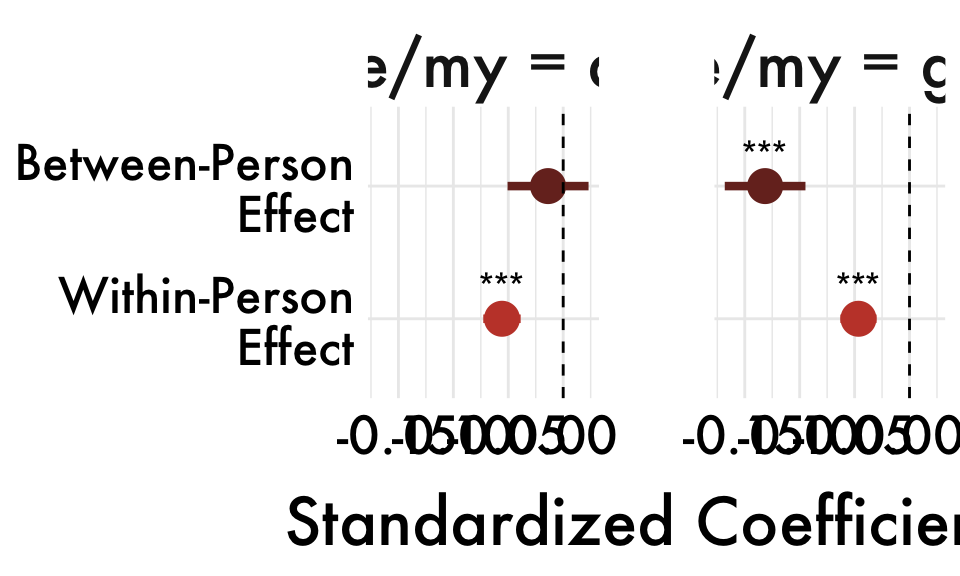
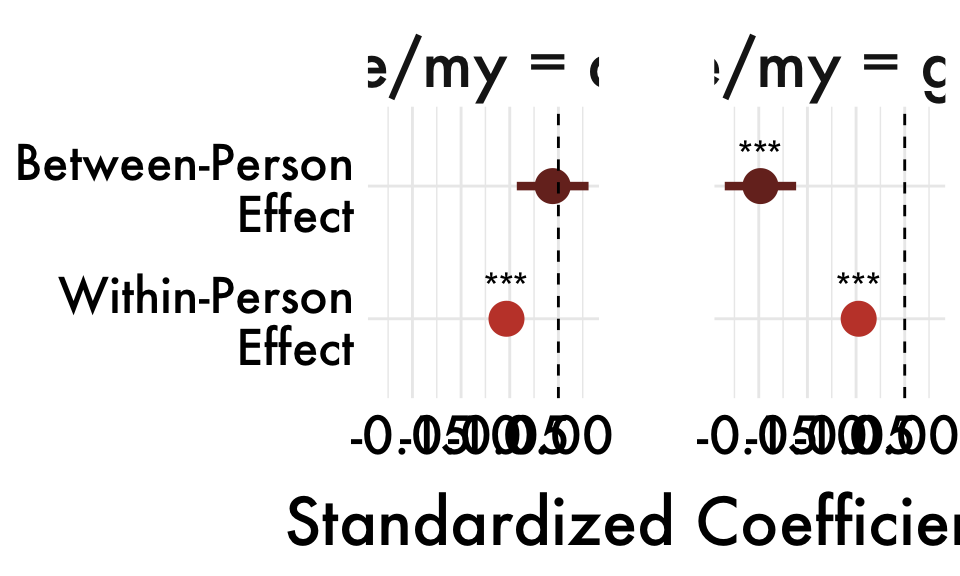
updating talkspace slides

diff --git a/docs/posts/I-projections/Post.html b/docs/posts/I-projections/Post.html
@@ -10,7 +10,7 @@
   <meta name="generator" content="quarto-1.6.40">
 
   <meta name="author" content="Steven">
-  <meta name="dcterms.date" content="2025-12-10">
+  <meta name="dcterms.date" content="2025-12-16">
   <title>I-Projection Results</title>
   <meta name="apple-mobile-web-app-capable" content="yes">
   <meta name="apple-mobile-web-app-status-bar-style" content="black-translucent">
@@ -150,7 +150,7 @@ Steven
 </div>
 </div>
 
-  <p class="date">2025-12-10</p>
+  <p class="date">2025-12-16</p>
 </section>
 <section>
 <section id="q1.-do-projections-move-closer-to-the-positive-end-of-the-axis-over-time" class="title-slide slide level1 center">
@@ -161,8 +161,8 @@ Steven
 <h2>First-person sing. valence projections</h2>
 <div class="cell">
 <div class="cell-output-display">
-<div class="datatables html-widget html-fill-item" id="htmlwidget-2a730c846929b1cd56b9" style="width:100%;height:auto;"></div>
-<script type="application/json" data-for="htmlwidget-2a730c846929b1cd56b9">{"x":{"filter":"none","vertical":false,"data":[["1","2"],["Intercept","daysSinceFirstText"],["0.3480 [0.3440, 0.3510]","0.0000 [0.0000, 0.0000]"],[9238.257,8791.084000000001],[0.002,0],[204.524,13.55],["&lt; .001","&lt; .001"],["***","***"]],"container":"<table class=\"display\">\n  <thead>\n    <tr>\n      <th> <\/th>\n      <th>term<\/th>\n      <th>b [95% CI]<\/th>\n      <th>df<\/th>\n      <th>SE<\/th>\n      <th>t<\/th>\n      <th>p<\/th>\n      <th>significance<\/th>\n    <\/tr>\n  <\/thead>\n<\/table>","options":{"columnDefs":[{"className":"dt-right","targets":[3,4,5]},{"orderable":false,"targets":0},{"name":" ","targets":0},{"name":"term","targets":1},{"name":"b [95% CI]","targets":2},{"name":"df","targets":3},{"name":"SE","targets":4},{"name":"t","targets":5},{"name":"p","targets":6},{"name":"significance","targets":7}],"order":[],"autoWidth":false,"orderClasses":false}},"evals":[],"jsHooks":[]}</script>
+<div class="datatables html-widget html-fill-item" id="htmlwidget-b5dbda7f1516fcd0c2e1" style="width:100%;height:auto;"></div>
+<script type="application/json" data-for="htmlwidget-b5dbda7f1516fcd0c2e1">{"x":{"filter":"none","vertical":false,"data":[["1","2"],["Intercept","daysSinceFirstText"],["0.3220 [0.3190, 0.3250]","0.0000 [0.0000, 0.0000]"],[9618.141,8874.082],[0.002,0],[201.608,13.981],["&lt; .001","&lt; .001"],["***","***"]],"container":"<table class=\"display\">\n  <thead>\n    <tr>\n      <th> <\/th>\n      <th>term<\/th>\n      <th>b [95% CI]<\/th>\n      <th>df<\/th>\n      <th>SE<\/th>\n      <th>t<\/th>\n      <th>p<\/th>\n      <th>significance<\/th>\n    <\/tr>\n  <\/thead>\n<\/table>","options":{"columnDefs":[{"className":"dt-right","targets":[3,4,5]},{"orderable":false,"targets":0},{"name":" ","targets":0},{"name":"term","targets":1},{"name":"b [95% CI]","targets":2},{"name":"df","targets":3},{"name":"SE","targets":4},{"name":"t","targets":5},{"name":"p","targets":6},{"name":"significance","targets":7}],"order":[],"autoWidth":false,"orderClasses":false}},"evals":[],"jsHooks":[]}</script>
 </div>
 </div>
 </section>
@@ -185,8 +185,8 @@ Steven
 <h2>first_person_sing_ability_combined</h2>
 <div class="cell">
 <div class="cell-output-display">
-<div class="datatables html-widget html-fill-item" id="htmlwidget-fdeadd1f5ba2fe711a2d" style="width:100%;height:auto;"></div>
-<script type="application/json" data-for="htmlwidget-fdeadd1f5ba2fe711a2d">{"x":{"filter":"none","vertical":false,"data":[["1","2"],["Intercept","daysSinceFirstText"],["0.0500 [0.0460, 0.0530]","0.0010 [0.0010, 0.0010]"],[8258.284,8684.388999999999],[0.002,0],[29.085,30.076],["&lt; .001","&lt; .001"],["***","***"]],"container":"<table class=\"display\">\n  <thead>\n    <tr>\n      <th> <\/th>\n      <th>term<\/th>\n      <th>b [95% CI]<\/th>\n      <th>df<\/th>\n      <th>SE<\/th>\n      <th>t<\/th>\n      <th>p<\/th>\n      <th>significance<\/th>\n    <\/tr>\n  <\/thead>\n<\/table>","options":{"columnDefs":[{"className":"dt-right","targets":[3,4,5]},{"orderable":false,"targets":0},{"name":" ","targets":0},{"name":"term","targets":1},{"name":"b [95% CI]","targets":2},{"name":"df","targets":3},{"name":"SE","targets":4},{"name":"t","targets":5},{"name":"p","targets":6},{"name":"significance","targets":7}],"order":[],"autoWidth":false,"orderClasses":false}},"evals":[],"jsHooks":[]}</script>
+<div class="datatables html-widget html-fill-item" id="htmlwidget-2eafe22559560761b783" style="width:100%;height:auto;"></div>
+<script type="application/json" data-for="htmlwidget-2eafe22559560761b783">{"x":{"filter":"none","vertical":false,"data":[["1","2"],["Intercept","daysSinceFirstText"],["0.0110 [0.0080, 0.0150]","0.0010 [0.0010, 0.0010]"],[8635.530000000001,8755.671],[0.002,0],[6.481,28.845],["&lt; .001","&lt; .001"],["***","***"]],"container":"<table class=\"display\">\n  <thead>\n    <tr>\n      <th> <\/th>\n      <th>term<\/th>\n      <th>b [95% CI]<\/th>\n      <th>df<\/th>\n      <th>SE<\/th>\n      <th>t<\/th>\n      <th>p<\/th>\n      <th>significance<\/th>\n    <\/tr>\n  <\/thead>\n<\/table>","options":{"columnDefs":[{"className":"dt-right","targets":[3,4,5]},{"orderable":false,"targets":0},{"name":" ","targets":0},{"name":"term","targets":1},{"name":"b [95% CI]","targets":2},{"name":"df","targets":3},{"name":"SE","targets":4},{"name":"t","targets":5},{"name":"p","targets":6},{"name":"significance","targets":7}],"order":[],"autoWidth":false,"orderClasses":false}},"evals":[],"jsHooks":[]}</script>
 </div>
 </div>
 </section>
@@ -209,8 +209,8 @@ Steven
 <h2>Good</h2>
 <div class="cell">
 <div class="cell-output-display">
-<div class="datatables html-widget html-fill-item" id="htmlwidget-cc487592b98666385206" style="width:100%;height:auto;"></div>
-<script type="application/json" data-for="htmlwidget-cc487592b98666385206">{"x":{"filter":"none","vertical":false,"data":[["1","2"],["(Intercept)","daysSinceFirstText"],[-0,0.13],[-0,0.111],[0,0.149]],"container":"<table class=\"display\">\n  <thead>\n    <tr>\n      <th> <\/th>\n      <th>term<\/th>\n      <th>Std_Coefficient<\/th>\n      <th>CI_low<\/th>\n      <th>CI_high<\/th>\n    <\/tr>\n  <\/thead>\n<\/table>","options":{"columnDefs":[{"className":"dt-right","targets":[2,3,4]},{"orderable":false,"targets":0},{"name":" ","targets":0},{"name":"term","targets":1},{"name":"Std_Coefficient","targets":2},{"name":"CI_low","targets":3},{"name":"CI_high","targets":4}],"order":[],"autoWidth":false,"orderClasses":false}},"evals":[],"jsHooks":[]}</script>
+<div class="datatables html-widget html-fill-item" id="htmlwidget-0e5f4a20e0ec11c5a289" style="width:100%;height:auto;"></div>
+<script type="application/json" data-for="htmlwidget-0e5f4a20e0ec11c5a289">{"x":{"filter":"none","vertical":false,"data":[["1","2"],["(Intercept)","daysSinceFirstText"],[-0,0.134],[-0,0.115],[0,0.152]],"container":"<table class=\"display\">\n  <thead>\n    <tr>\n      <th> <\/th>\n      <th>term<\/th>\n      <th>Std_Coefficient<\/th>\n      <th>CI_low<\/th>\n      <th>CI_high<\/th>\n    <\/tr>\n  <\/thead>\n<\/table>","options":{"columnDefs":[{"className":"dt-right","targets":[2,3,4]},{"orderable":false,"targets":0},{"name":" ","targets":0},{"name":"term","targets":1},{"name":"Std_Coefficient","targets":2},{"name":"CI_low","targets":3},{"name":"CI_high","targets":4}],"order":[],"autoWidth":false,"orderClasses":false}},"evals":[],"jsHooks":[]}</script>
 </div>
 </div>
 </section>
@@ -218,8 +218,8 @@ Steven
 <h2>Able</h2>
 <div class="cell">
 <div class="cell-output-display">
-<div class="datatables html-widget html-fill-item" id="htmlwidget-0eaefea4a38eb161e906" style="width:100%;height:auto;"></div>
-<script type="application/json" data-for="htmlwidget-0eaefea4a38eb161e906">{"x":{"filter":"none","vertical":false,"data":[["1","2"],["(Intercept)","daysSinceFirstText"],[-0,0.279],[-0,0.261],[0,0.297]],"container":"<table class=\"display\">\n  <thead>\n    <tr>\n      <th> <\/th>\n      <th>term<\/th>\n      <th>Std_Coefficient<\/th>\n      <th>CI_low<\/th>\n      <th>CI_high<\/th>\n    <\/tr>\n  <\/thead>\n<\/table>","options":{"columnDefs":[{"className":"dt-right","targets":[2,3,4]},{"orderable":false,"targets":0},{"name":" ","targets":0},{"name":"term","targets":1},{"name":"Std_Coefficient","targets":2},{"name":"CI_low","targets":3},{"name":"CI_high","targets":4}],"order":[],"autoWidth":false,"orderClasses":false}},"evals":[],"jsHooks":[]}</script>
+<div class="datatables html-widget html-fill-item" id="htmlwidget-8c2f0d8dca25ae537be1" style="width:100%;height:auto;"></div>
+<script type="application/json" data-for="htmlwidget-8c2f0d8dca25ae537be1">{"x":{"filter":"none","vertical":false,"data":[["1","2"],["(Intercept)","daysSinceFirstText"],[-0,0.268],[-0,0.25],[0,0.286]],"container":"<table class=\"display\">\n  <thead>\n    <tr>\n      <th> <\/th>\n      <th>term<\/th>\n      <th>Std_Coefficient<\/th>\n      <th>CI_low<\/th>\n      <th>CI_high<\/th>\n    <\/tr>\n  <\/thead>\n<\/table>","options":{"columnDefs":[{"className":"dt-right","targets":[2,3,4]},{"orderable":false,"targets":0},{"name":" ","targets":0},{"name":"term","targets":1},{"name":"Std_Coefficient","targets":2},{"name":"CI_low","targets":3},{"name":"CI_high","targets":4}],"order":[],"autoWidth":false,"orderClasses":false}},"evals":[],"jsHooks":[]}</script>
 </div>
 </div>
 </section></section>
@@ -237,16 +237,16 @@ Steven
 <div id="tabset-1-1">
 <div class="cell">
 <div class="cell-output-display">
-<div class="datatables html-widget html-fill-item" id="htmlwidget-0e05b0afc30cf39680e3" style="width:100%;height:auto;"></div>
-<script type="application/json" data-for="htmlwidget-0e05b0afc30cf39680e3">{"x":{"filter":"none","vertical":false,"data":[["1","2","3"],["Intercept","first_person_sing_valence_combined","daysSinceFirstText"],["-0.0020 [-0.0290, 0.0240]","-0.0730 [-0.0890, -0.0570]","-0.2560 [-0.2680, -0.2440]"],[3674.404,11223.059,8627.591],[0.014,0.008,0.006],[-0.17,-9.202999999999999,-42.639],[".865","&lt; .001","&lt; .001"],["","***","***"]],"container":"<table class=\"display\">\n  <thead>\n    <tr>\n      <th> <\/th>\n      <th>term<\/th>\n      <th>b [95% CI]<\/th>\n      <th>df<\/th>\n      <th>SE<\/th>\n      <th>t<\/th>\n      <th>p<\/th>\n      <th>significance<\/th>\n    <\/tr>\n  <\/thead>\n<\/table>","options":{"columnDefs":[{"className":"dt-right","targets":[3,4,5]},{"orderable":false,"targets":0},{"name":" ","targets":0},{"name":"term","targets":1},{"name":"b [95% CI]","targets":2},{"name":"df","targets":3},{"name":"SE","targets":4},{"name":"t","targets":5},{"name":"p","targets":6},{"name":"significance","targets":7}],"order":[],"autoWidth":false,"orderClasses":false}},"evals":[],"jsHooks":[]}</script>
+<div class="datatables html-widget html-fill-item" id="htmlwidget-86ad0a98bdfbbd154633" style="width:100%;height:auto;"></div>
+<script type="application/json" data-for="htmlwidget-86ad0a98bdfbbd154633">{"x":{"filter":"none","vertical":false,"data":[["1","2","3"],["Intercept","first_person_sing_valence_combined","daysSinceFirstText"],["-0.0020 [-0.0290, 0.0240]","-0.0750 [-0.0900, -0.0600]","-0.2550 [-0.2670, -0.2430]"],[3672.307,11038.831,8625.1],[0.014,0.008,0.006],[-0.165,-9.661,-42.49],[".869","&lt; .001","&lt; .001"],["","***","***"]],"container":"<table class=\"display\">\n  <thead>\n    <tr>\n      <th> <\/th>\n      <th>term<\/th>\n      <th>b [95% CI]<\/th>\n      <th>df<\/th>\n      <th>SE<\/th>\n      <th>t<\/th>\n      <th>p<\/th>\n      <th>significance<\/th>\n    <\/tr>\n  <\/thead>\n<\/table>","options":{"columnDefs":[{"className":"dt-right","targets":[3,4,5]},{"orderable":false,"targets":0},{"name":" ","targets":0},{"name":"term","targets":1},{"name":"b [95% CI]","targets":2},{"name":"df","targets":3},{"name":"SE","targets":4},{"name":"t","targets":5},{"name":"p","targets":6},{"name":"significance","targets":7}],"order":[],"autoWidth":false,"orderClasses":false}},"evals":[],"jsHooks":[]}</script>
 </div>
 </div>
 </div>
 <div id="tabset-1-2">
 <div class="cell">
 <div class="cell-output-display">
-<div class="datatables html-widget html-fill-item" id="htmlwidget-095e0b953040ee1dd7bb" style="width:100%;height:auto;"></div>
-<script type="application/json" data-for="htmlwidget-095e0b953040ee1dd7bb">{"x":{"filter":"none","vertical":false,"data":[["1","2","3","4"],["Intercept","daysSinceFirstText","first_person_sing_valence_combined_within","first_person_sing_valence_combined_between"],["-0.0010 [-0.0280, 0.0260]","-0.2590 [-0.2710, -0.2470]","-0.0380 [-0.0510, -0.0240]","-0.1000 [-0.1270, -0.0720]"],[3589.413,8522.674000000001,8082.705,3642.397],[0.014,0.006,0.007,0.014],[-0.066,-42.955,-5.538,-7.016],[".947","&lt; .001","&lt; .001","&lt; .001"],["","***","***","***"]],"container":"<table class=\"display\">\n  <thead>\n    <tr>\n      <th> <\/th>\n      <th>term<\/th>\n      <th>b [95% CI]<\/th>\n      <th>df<\/th>\n      <th>SE<\/th>\n      <th>t<\/th>\n      <th>p<\/th>\n      <th>significance<\/th>\n    <\/tr>\n  <\/thead>\n<\/table>","options":{"columnDefs":[{"className":"dt-right","targets":[3,4,5]},{"orderable":false,"targets":0},{"name":" ","targets":0},{"name":"term","targets":1},{"name":"b [95% CI]","targets":2},{"name":"df","targets":3},{"name":"SE","targets":4},{"name":"t","targets":5},{"name":"p","targets":6},{"name":"significance","targets":7}],"order":[],"autoWidth":false,"orderClasses":false}},"evals":[],"jsHooks":[]}</script>
+<div class="datatables html-widget html-fill-item" id="htmlwidget-ba7440216c579e508100" style="width:100%;height:auto;"></div>
+<script type="application/json" data-for="htmlwidget-ba7440216c579e508100">{"x":{"filter":"none","vertical":false,"data":[["1","2","3","4"],["Intercept","daysSinceFirstText","first_person_sing_valence_combined_within","first_person_sing_valence_combined_between"],["-0.0010 [-0.0270, 0.0260]","-0.2590 [-0.2700, -0.2470]","-0.0390 [-0.0520, -0.0250]","-0.1130 [-0.1410, -0.0850]"],[3589.351,8524.428,8082.994,3643.886],[0.014,0.006,0.007,0.014],[-0.047,-42.919,-5.636,-7.927],[".962","&lt; .001","&lt; .001","&lt; .001"],["","***","***","***"]],"container":"<table class=\"display\">\n  <thead>\n    <tr>\n      <th> <\/th>\n      <th>term<\/th>\n      <th>b [95% CI]<\/th>\n      <th>df<\/th>\n      <th>SE<\/th>\n      <th>t<\/th>\n      <th>p<\/th>\n      <th>significance<\/th>\n    <\/tr>\n  <\/thead>\n<\/table>","options":{"columnDefs":[{"className":"dt-right","targets":[3,4,5]},{"orderable":false,"targets":0},{"name":" ","targets":0},{"name":"term","targets":1},{"name":"b [95% CI]","targets":2},{"name":"df","targets":3},{"name":"SE","targets":4},{"name":"t","targets":5},{"name":"p","targets":6},{"name":"significance","targets":7}],"order":[],"autoWidth":false,"orderClasses":false}},"evals":[],"jsHooks":[]}</script>
 </div>
 </div>
 </div>
@@ -263,16 +263,16 @@ Steven
 <div id="tabset-2-1">
 <div class="cell">
 <div class="cell-output-display">
-<div class="datatables html-widget html-fill-item" id="htmlwidget-80b0bd058f23fb8a4edc" style="width:100%;height:auto;"></div>
-<script type="application/json" data-for="htmlwidget-80b0bd058f23fb8a4edc">{"x":{"filter":"none","vertical":false,"data":[["1","2","3"],["Intercept","first_person_sing_ability_combined","daysSinceFirstText"],["-0.0020 [-0.0290, 0.0250]","-0.0600 [-0.0770, -0.0430]","-0.2510 [-0.2640, -0.2390]"],[3675.082,11610.504,8838.146000000001],[0.014,0.008999999999999999,0.006],[-0.142,-6.983,-40.676],[".887","&lt; .001","&lt; .001"],["","***","***"]],"container":"<table class=\"display\">\n  <thead>\n    <tr>\n      <th> <\/th>\n      <th>term<\/th>\n      <th>b [95% CI]<\/th>\n      <th>df<\/th>\n      <th>SE<\/th>\n      <th>t<\/th>\n      <th>p<\/th>\n      <th>significance<\/th>\n    <\/tr>\n  <\/thead>\n<\/table>","options":{"columnDefs":[{"className":"dt-right","targets":[3,4,5]},{"orderable":false,"targets":0},{"name":" ","targets":0},{"name":"term","targets":1},{"name":"b [95% CI]","targets":2},{"name":"df","targets":3},{"name":"SE","targets":4},{"name":"t","targets":5},{"name":"p","targets":6},{"name":"significance","targets":7}],"order":[],"autoWidth":false,"orderClasses":false}},"evals":[],"jsHooks":[]}</script>
+<div class="datatables html-widget html-fill-item" id="htmlwidget-3ed7b9f00acecb7444f5" style="width:100%;height:auto;"></div>
+<script type="application/json" data-for="htmlwidget-3ed7b9f00acecb7444f5">{"x":{"filter":"none","vertical":false,"data":[["1","2","3"],["Intercept","first_person_sing_ability_combined","daysSinceFirstText"],["-0.0020 [-0.0290, 0.0250]","-0.0520 [-0.0680, -0.0350]","-0.2530 [-0.2650, -0.2410]"],[3675.225,11479.966,8798.064],[0.014,0.008,0.006],[-0.126,-6.101,-41.034],[".900","&lt; .001","&lt; .001"],["","***","***"]],"container":"<table class=\"display\">\n  <thead>\n    <tr>\n      <th> <\/th>\n      <th>term<\/th>\n      <th>b [95% CI]<\/th>\n      <th>df<\/th>\n      <th>SE<\/th>\n      <th>t<\/th>\n      <th>p<\/th>\n      <th>significance<\/th>\n    <\/tr>\n  <\/thead>\n<\/table>","options":{"columnDefs":[{"className":"dt-right","targets":[3,4,5]},{"orderable":false,"targets":0},{"name":" ","targets":0},{"name":"term","targets":1},{"name":"b [95% CI]","targets":2},{"name":"df","targets":3},{"name":"SE","targets":4},{"name":"t","targets":5},{"name":"p","targets":6},{"name":"significance","targets":7}],"order":[],"autoWidth":false,"orderClasses":false}},"evals":[],"jsHooks":[]}</script>
 </div>
 </div>
 </div>
 <div id="tabset-2-2">
 <div class="cell">
 <div class="cell-output-display">
-<div class="datatables html-widget html-fill-item" id="htmlwidget-49c35a3216b2eaa98603" style="width:100%;height:auto;"></div>
-<script type="application/json" data-for="htmlwidget-49c35a3216b2eaa98603">{"x":{"filter":"none","vertical":false,"data":[["1","2","3","4"],["Intercept","first_person_sing_ability_combined_between","first_person_sing_ability_combined_within","daysSinceFirstText"],["-0.0030 [-0.0300, 0.0240]","-0.0100 [-0.0380, 0.0170]","-0.0450 [-0.0590, -0.0320]","-0.2520 [-0.2640, -0.2400]"],[3589.077,3600.016,8114.044,8545.599],[0.014,0.014,0.007,0.006],[-0.223,-0.732,-6.417,-40.367],[".824",".464","&lt; .001","&lt; .001"],["","","***","***"]],"container":"<table class=\"display\">\n  <thead>\n    <tr>\n      <th> <\/th>\n      <th>term<\/th>\n      <th>b [95% CI]<\/th>\n      <th>df<\/th>\n      <th>SE<\/th>\n      <th>t<\/th>\n      <th>p<\/th>\n      <th>significance<\/th>\n    <\/tr>\n  <\/thead>\n<\/table>","options":{"columnDefs":[{"className":"dt-right","targets":[3,4,5]},{"orderable":false,"targets":0},{"name":" ","targets":0},{"name":"term","targets":1},{"name":"b [95% CI]","targets":2},{"name":"df","targets":3},{"name":"SE","targets":4},{"name":"t","targets":5},{"name":"p","targets":6},{"name":"significance","targets":7}],"order":[],"autoWidth":false,"orderClasses":false}},"evals":[],"jsHooks":[]}</script>
+<div class="datatables html-widget html-fill-item" id="htmlwidget-30672e0cc0a8604a7e7a" style="width:100%;height:auto;"></div>
+<script type="application/json" data-for="htmlwidget-30672e0cc0a8604a7e7a">{"x":{"filter":"none","vertical":false,"data":[["1","2","3","4"],["Intercept","first_person_sing_ability_combined_between","first_person_sing_ability_combined_within","daysSinceFirstText"],["-0.0030 [-0.0300, 0.0240]","-0.0040 [-0.0320, 0.0230]","-0.0430 [-0.0570, -0.0300]","-0.2530 [-0.2650, -0.2410]"],[3588.85,3599.363,8110.05,8541.519],[0.014,0.014,0.007,0.006],[-0.228,-0.312,-6.165,-40.697],[".820",".755","&lt; .001","&lt; .001"],["","","***","***"]],"container":"<table class=\"display\">\n  <thead>\n    <tr>\n      <th> <\/th>\n      <th>term<\/th>\n      <th>b [95% CI]<\/th>\n      <th>df<\/th>\n      <th>SE<\/th>\n      <th>t<\/th>\n      <th>p<\/th>\n      <th>significance<\/th>\n    <\/tr>\n  <\/thead>\n<\/table>","options":{"columnDefs":[{"className":"dt-right","targets":[3,4,5]},{"orderable":false,"targets":0},{"name":" ","targets":0},{"name":"term","targets":1},{"name":"b [95% CI]","targets":2},{"name":"df","targets":3},{"name":"SE","targets":4},{"name":"t","targets":5},{"name":"p","targets":6},{"name":"significance","targets":7}],"order":[],"autoWidth":false,"orderClasses":false}},"evals":[],"jsHooks":[]}</script>
 </div>
 </div>
 </div>
@@ -294,16 +294,16 @@ Steven
 <div id="tabset-3-1">
 <div class="cell">
 <div class="cell-output-display">
-<div class="datatables html-widget html-fill-item" id="htmlwidget-5f1c8a40fb6e821bad1e" style="width:100%;height:auto;"></div>
-<script type="application/json" data-for="htmlwidget-5f1c8a40fb6e821bad1e">{"x":{"filter":"none","vertical":false,"data":[["1","2","3","4","5","6","7","8","9"],["Intercept","i","pct_good","pct_bad","n_total","tone_pos","tone_neg","daysSinceFirstText","first_person_sing_valence_combined"],["-0.0030 [-0.0290, 0.0230]","0.0280 [0.0120, 0.0440]","-0.0030 [-0.0170, 0.0100]","0.0040 [-0.0090, 0.0170]","0.0000 [-0.0160, 0.0160]","-0.0210 [-0.0370, -0.0060]","0.0700 [0.0550, 0.0850]","-0.2610 [-0.2730, -0.2500]","-0.0700 [-0.0860, -0.0550]"],[3616.42,11222.728,9686.904,9614.686,11325.481,10545.141,10429.482,8618.4,11251.594],[0.013,0.008,0.007,0.007,0.008,0.008,0.008,0.006,0.008],[-0.216,3.39,-0.495,0.55,0.012,-2.672,9.276,-43.348,-8.847],[".829",".001",".620",".582",".991",".008","&lt; .001","&lt; .001","&lt; .001"],["","**","","","","**","***","***","***"]],"container":"<table class=\"display\">\n  <thead>\n    <tr>\n      <th> <\/th>\n      <th>term<\/th>\n      <th>b [95% CI]<\/th>\n      <th>df<\/th>\n      <th>SE<\/th>\n      <th>t<\/th>\n      <th>p<\/th>\n      <th>significance<\/th>\n    <\/tr>\n  <\/thead>\n<\/table>","options":{"columnDefs":[{"className":"dt-right","targets":[3,4,5]},{"orderable":false,"targets":0},{"name":" ","targets":0},{"name":"term","targets":1},{"name":"b [95% CI]","targets":2},{"name":"df","targets":3},{"name":"SE","targets":4},{"name":"t","targets":5},{"name":"p","targets":6},{"name":"significance","targets":7}],"order":[],"autoWidth":false,"orderClasses":false}},"evals":[],"jsHooks":[]}</script>
+<div class="datatables html-widget html-fill-item" id="htmlwidget-8edfe1a381c0bd459c4d" style="width:100%;height:auto;"></div>
+<script type="application/json" data-for="htmlwidget-8edfe1a381c0bd459c4d">{"x":{"filter":"none","vertical":false,"data":[["1","2","3","4","5","6","7","8","9"],["Intercept","i","pct_good","pct_bad","n_total","tone_pos","tone_neg","daysSinceFirstText","first_person_sing_valence_combined"],["-0.0030 [-0.0290, 0.0230]","0.0260 [0.0100, 0.0420]","-0.0030 [-0.0160, 0.0100]","0.0040 [-0.0090, 0.0170]","-0.0010 [-0.0160, 0.0150]","-0.0200 [-0.0360, -0.0050]","0.0690 [0.0550, 0.0840]","-0.2610 [-0.2730, -0.2490]","-0.0700 [-0.0850, -0.0550]"],[3615.397,11220.488,9687.031999999999,9614.803,11331.325,10549.348,10426.516,8619.232,11063.251],[0.013,0.008,0.007,0.007,0.008,0.008,0.008,0.006,0.008],[-0.209,3.129,-0.472,0.556,-0.07099999999999999,-2.549,9.173999999999999,-43.188,-8.967000000000001],[".835",".002",".637",".578",".943",".011","&lt; .001","&lt; .001","&lt; .001"],["","**","","","","*","***","***","***"]],"container":"<table class=\"display\">\n  <thead>\n    <tr>\n      <th> <\/th>\n      <th>term<\/th>\n      <th>b [95% CI]<\/th>\n      <th>df<\/th>\n      <th>SE<\/th>\n      <th>t<\/th>\n      <th>p<\/th>\n      <th>significance<\/th>\n    <\/tr>\n  <\/thead>\n<\/table>","options":{"columnDefs":[{"className":"dt-right","targets":[3,4,5]},{"orderable":false,"targets":0},{"name":" ","targets":0},{"name":"term","targets":1},{"name":"b [95% CI]","targets":2},{"name":"df","targets":3},{"name":"SE","targets":4},{"name":"t","targets":5},{"name":"p","targets":6},{"name":"significance","targets":7}],"order":[],"autoWidth":false,"orderClasses":false}},"evals":[],"jsHooks":[]}</script>
 </div>
 </div>
 </div>
 <div id="tabset-3-2">
 <div class="cell">
 <div class="cell-output-display">
-<div class="datatables html-widget html-fill-item" id="htmlwidget-b7a33a321fc665d42f19" style="width:100%;height:auto;"></div>
-<script type="application/json" data-for="htmlwidget-b7a33a321fc665d42f19">{"x":{"filter":"none","vertical":false,"data":[["1","2","3","4","5","6","7","8","9","10","11","12","13","14","15","16"],["Intercept","daysSinceFirstText","first_person_sing_valence_combined_between","first_person_sing_valence_combined_within","tone_pos_within","tone_pos_between","tone_neg_within","tone_neg_between","n_total_within","n_total_between","i_between","i_within","pct_good_between","pct_good_within","pct_bad_between","pct_bad_within"],["-0.0030 [-0.0300, 0.0240]","-0.2610 [-0.2730, -0.2480]","-0.0690 [-0.0980, -0.0410]","-0.0380 [-0.0520, -0.0250]","-0.0320 [-0.0460, -0.0180]","-0.0600 [-0.0920, -0.0280]","0.0220 [0.0080, 0.0360]","0.1780 [0.1470, 0.2090]","0.0100 [-0.0030, 0.0240]","-0.0090 [-0.0360, 0.0180]","0.0840 [0.0540, 0.1140]","-0.0020 [-0.0160, 0.0120]","-0.0010 [-0.0310, 0.0290]","-0.0050 [-0.0180, 0.0090]","0.0030 [-0.0240, 0.0310]","0.0080 [-0.0060, 0.0210]"],[3306.157,8027.912,3344.169,7596.01,7587.536,3377.339,7586.986,3351.985,7587.698,3289.306,3319.934,7588.742,3338.739,7586.903,3396.08,7586.721],[0.014,0.006,0.015,0.007,0.007,0.016,0.007,0.016,0.007,0.014,0.015,0.007,0.015,0.007,0.014,0.007],[-0.235,-41.933,-4.748,-5.446,-4.513,-3.634,3.09,11.247,1.498,-0.622,5.496,-0.25,-0.061,-0.678,0.242,1.07],[".814","&lt; .001","&lt; .001","&lt; .001","&lt; .001","&lt; .001",".002","&lt; .001",".134",".534","&lt; .001",".802",".951",".498",".809",".285"],["","***","***","***","***","***","**","***","","","***","","","","",""]],"container":"<table class=\"display\">\n  <thead>\n    <tr>\n      <th> <\/th>\n      <th>term<\/th>\n      <th>b [95% CI]<\/th>\n      <th>df<\/th>\n      <th>SE<\/th>\n      <th>t<\/th>\n      <th>p<\/th>\n      <th>significance<\/th>\n    <\/tr>\n  <\/thead>\n<\/table>","options":{"columnDefs":[{"className":"dt-right","targets":[3,4,5]},{"orderable":false,"targets":0},{"name":" ","targets":0},{"name":"term","targets":1},{"name":"b [95% CI]","targets":2},{"name":"df","targets":3},{"name":"SE","targets":4},{"name":"t","targets":5},{"name":"p","targets":6},{"name":"significance","targets":7}],"order":[],"autoWidth":false,"orderClasses":false}},"evals":[],"jsHooks":[]}</script>
+<div class="datatables html-widget html-fill-item" id="htmlwidget-22e4163e33dd71a647a6" style="width:100%;height:auto;"></div>
+<script type="application/json" data-for="htmlwidget-22e4163e33dd71a647a6">{"x":{"filter":"none","vertical":false,"data":[["1","2","3","4","5","6","7","8","9","10","11","12","13","14","15","16"],["Intercept","daysSinceFirstText","first_person_sing_valence_combined_between","first_person_sing_valence_combined_within","tone_pos_within","tone_pos_between","tone_neg_within","tone_neg_between","n_total_within","n_total_between","i_between","i_within","pct_good_between","pct_good_within","pct_bad_between","pct_bad_within"],["-0.0030 [-0.0300, 0.0240]","-0.2600 [-0.2730, -0.2480]","-0.0740 [-0.1030, -0.0460]","-0.0380 [-0.0520, -0.0240]","-0.0320 [-0.0460, -0.0180]","-0.0590 [-0.0910, -0.0270]","0.0220 [0.0080, 0.0360]","0.1770 [0.1460, 0.2080]","0.0110 [-0.0030, 0.0240]","-0.0110 [-0.0380, 0.0160]","0.0810 [0.0510, 0.1100]","-0.0030 [-0.0170, 0.0110]","-0.0010 [-0.0310, 0.0290]","-0.0050 [-0.0180, 0.0090]","0.0030 [-0.0240, 0.0310]","0.0080 [-0.0060, 0.0210]"],[3306.294,8028.979,3343.712,7596.744,7587.631,3377.782,7587.06,3352.033,7587.751,3287.958,3320.042,7589.007,3338.78,7586.955,3396.213,7586.782],[0.014,0.006,0.015,0.007,0.007,0.016,0.007,0.016,0.007,0.014,0.015,0.007,0.015,0.007,0.014,0.007],[-0.215,-41.872,-5.067,-5.42,-4.466,-3.585,3.061,11.191,1.5,-0.8169999999999999,5.277,-0.37,-0.082,-0.675,0.231,1.087],[".830","&lt; .001","&lt; .001","&lt; .001","&lt; .001","&lt; .001",".002","&lt; .001",".134",".414","&lt; .001",".712",".935",".500",".817",".277"],["","***","***","***","***","***","**","***","","","***","","","","",""]],"container":"<table class=\"display\">\n  <thead>\n    <tr>\n      <th> <\/th>\n      <th>term<\/th>\n      <th>b [95% CI]<\/th>\n      <th>df<\/th>\n      <th>SE<\/th>\n      <th>t<\/th>\n      <th>p<\/th>\n      <th>significance<\/th>\n    <\/tr>\n  <\/thead>\n<\/table>","options":{"columnDefs":[{"className":"dt-right","targets":[3,4,5]},{"orderable":false,"targets":0},{"name":" ","targets":0},{"name":"term","targets":1},{"name":"b [95% CI]","targets":2},{"name":"df","targets":3},{"name":"SE","targets":4},{"name":"t","targets":5},{"name":"p","targets":6},{"name":"significance","targets":7}],"order":[],"autoWidth":false,"orderClasses":false}},"evals":[],"jsHooks":[]}</script>
 </div>
 </div>
 </div>
@@ -320,16 +320,16 @@ Steven
 <div id="tabset-4-1">
 <div class="cell">
 <div class="cell-output-display">
-<div class="datatables html-widget html-fill-item" id="htmlwidget-ef5bcc2d5d5dab9a55c1" style="width:100%;height:auto;"></div>
-<script type="application/json" data-for="htmlwidget-ef5bcc2d5d5dab9a55c1">{"x":{"filter":"none","vertical":false,"data":[["1","2","3","4","5","6","7","8","9"],["Intercept","i","pct_good","pct_bad","n_total","tone_pos","tone_neg","daysSinceFirstText","first_person_sing_ability_combined"],["-0.0030 [-0.0290, 0.0240]","0.0390 [0.0230, 0.0550]","-0.0030 [-0.0160, 0.0100]","0.0050 [-0.0080, 0.0190]","-0.0000 [-0.0160, 0.0160]","-0.0230 [-0.0390, -0.0070]","0.0680 [0.0530, 0.0830]","-0.2560 [-0.2690, -0.2440]","-0.0640 [-0.0810, -0.0470]"],[3614.017,11158.778,9666.447,9599.938,11307.231,10527.284,10411.512,8825.588,11618.669],[0.013,0.008,0.007,0.007,0.008,0.008,0.008,0.006,0.008999999999999999],[-0.202,4.689,-0.41,0.821,-0.013,-2.839,8.994,-41.383,-7.377],[".840","&lt; .001",".682",".411",".990",".005","&lt; .001","&lt; .001","&lt; .001"],["","***","","","","**","***","***","***"]],"container":"<table class=\"display\">\n  <thead>\n    <tr>\n      <th> <\/th>\n      <th>term<\/th>\n      <th>b [95% CI]<\/th>\n      <th>df<\/th>\n      <th>SE<\/th>\n      <th>t<\/th>\n      <th>p<\/th>\n      <th>significance<\/th>\n    <\/tr>\n  <\/thead>\n<\/table>","options":{"columnDefs":[{"className":"dt-right","targets":[3,4,5]},{"orderable":false,"targets":0},{"name":" ","targets":0},{"name":"term","targets":1},{"name":"b [95% CI]","targets":2},{"name":"df","targets":3},{"name":"SE","targets":4},{"name":"t","targets":5},{"name":"p","targets":6},{"name":"significance","targets":7}],"order":[],"autoWidth":false,"orderClasses":false}},"evals":[],"jsHooks":[]}</script>
+<div class="datatables html-widget html-fill-item" id="htmlwidget-a05050986c7fbb1db7d0" style="width:100%;height:auto;"></div>
+<script type="application/json" data-for="htmlwidget-a05050986c7fbb1db7d0">{"x":{"filter":"none","vertical":false,"data":[["1","2","3","4","5","6","7","8","9"],["Intercept","i","pct_good","pct_bad","n_total","tone_pos","tone_neg","daysSinceFirstText","first_person_sing_ability_combined"],["-0.0020 [-0.0290, 0.0240]","0.0370 [0.0200, 0.0530]","-0.0030 [-0.0160, 0.0100]","0.0050 [-0.0080, 0.0180]","-0.0010 [-0.0170, 0.0150]","-0.0210 [-0.0360, -0.0050]","0.0680 [0.0530, 0.0830]","-0.2590 [-0.2710, -0.2470]","-0.0510 [-0.0680, -0.0340]"],[3612.983,11170.404,9668.574000000001,9599.353999999999,11315.485,10531.277,10421.461,8793.669,11506.728],[0.013,0.008,0.007,0.007,0.008,0.008,0.008,0.006,0.008],[-0.183,4.423,-0.467,0.788,-0.146,-2.551,8.993,-41.795,-6.019],[".854","&lt; .001",".641",".431",".884",".011","&lt; .001","&lt; .001","&lt; .001"],["","***","","","","*","***","***","***"]],"container":"<table class=\"display\">\n  <thead>\n    <tr>\n      <th> <\/th>\n      <th>term<\/th>\n      <th>b [95% CI]<\/th>\n      <th>df<\/th>\n      <th>SE<\/th>\n      <th>t<\/th>\n      <th>p<\/th>\n      <th>significance<\/th>\n    <\/tr>\n  <\/thead>\n<\/table>","options":{"columnDefs":[{"className":"dt-right","targets":[3,4,5]},{"orderable":false,"targets":0},{"name":" ","targets":0},{"name":"term","targets":1},{"name":"b [95% CI]","targets":2},{"name":"df","targets":3},{"name":"SE","targets":4},{"name":"t","targets":5},{"name":"p","targets":6},{"name":"significance","targets":7}],"order":[],"autoWidth":false,"orderClasses":false}},"evals":[],"jsHooks":[]}</script>
 </div>
 </div>
 </div>
 <div id="tabset-4-2">
 <div class="cell">
 <div class="cell-output-display">
-<div class="datatables html-widget html-fill-item" id="htmlwidget-c70e6b0b44cde8177e81" style="width:100%;height:auto;"></div>
-<script type="application/json" data-for="htmlwidget-c70e6b0b44cde8177e81">{"x":{"filter":"none","vertical":false,"data":[["1","2","3","4","5","6","7","8","9","10","11","12","13","14","15","16"],["Intercept","daysSinceFirstText","first_person_sing_ability_combined_between","first_person_sing_ability_combined_within","tone_pos_within","tone_pos_between","tone_neg_within","tone_neg_between","n_total_within","n_total_between","i_between","i_within","pct_good_between","pct_good_within","pct_bad_between","pct_bad_within"],["-0.0020 [-0.0290, 0.0250]","-0.2530 [-0.2660, -0.2410]","-0.0200 [-0.0480, 0.0090]","-0.0470 [-0.0620, -0.0330]","-0.0330 [-0.0470, -0.0190]","-0.0560 [-0.0880, -0.0230]","0.0200 [0.0060, 0.0340]","0.1830 [0.1520, 0.2140]","0.0100 [-0.0040, 0.0240]","-0.0150 [-0.0420, 0.0120]","0.0920 [0.0610, 0.1220]","0.0030 [-0.0110, 0.0170]","-0.0010 [-0.0310, 0.0300]","-0.0040 [-0.0180, 0.0100]","0.0020 [-0.0260, 0.0300]","0.0090 [-0.0050, 0.0230]"],[3306.681,8052.822,3305.834,7626.327,7587.308,3377.724,7587.289,3353.902,7587.441,3288.239,3322.364,7587.591,3338.31,7586.875,3395.771,7586.846],[0.014,0.006,0.014,0.007,0.007,0.017,0.007,0.016,0.007,0.014,0.016,0.007,0.015,0.007,0.014,0.007],[-0.177,-39.427,-1.354,-6.471,-4.657,-3.361,2.831,11.523,1.404,-1.106,5.906,0.374,-0.043,-0.5620000000000001,0.136,1.31],[".859","&lt; .001",".176","&lt; .001","&lt; .001",".001",".005","&lt; .001",".160",".269","&lt; .001",".708",".966",".574",".892",".190"],["","***","","***","***","**","**","***","","","***","","","","",""]],"container":"<table class=\"display\">\n  <thead>\n    <tr>\n      <th> <\/th>\n      <th>term<\/th>\n      <th>b [95% CI]<\/th>\n      <th>df<\/th>\n      <th>SE<\/th>\n      <th>t<\/th>\n      <th>p<\/th>\n      <th>significance<\/th>\n    <\/tr>\n  <\/thead>\n<\/table>","options":{"columnDefs":[{"className":"dt-right","targets":[3,4,5]},{"orderable":false,"targets":0},{"name":" ","targets":0},{"name":"term","targets":1},{"name":"b [95% CI]","targets":2},{"name":"df","targets":3},{"name":"SE","targets":4},{"name":"t","targets":5},{"name":"p","targets":6},{"name":"significance","targets":7}],"order":[],"autoWidth":false,"orderClasses":false}},"evals":[],"jsHooks":[]}</script>
+<div class="datatables html-widget html-fill-item" id="htmlwidget-d966494824dacd772d7b" style="width:100%;height:auto;"></div>
+<script type="application/json" data-for="htmlwidget-d966494824dacd772d7b">{"x":{"filter":"none","vertical":false,"data":[["1","2","3","4","5","6","7","8","9","10","11","12","13","14","15","16"],["Intercept","daysSinceFirstText","first_person_sing_ability_combined_between","first_person_sing_ability_combined_within","tone_pos_within","tone_pos_between","tone_neg_within","tone_neg_between","n_total_within","n_total_between","i_between","i_within","pct_good_between","pct_good_within","pct_bad_between","pct_bad_within"],["-0.0020 [-0.0290, 0.0250]","-0.2540 [-0.2670, -0.2420]","-0.0130 [-0.0410, 0.0140]","-0.0440 [-0.0590, -0.0300]","-0.0330 [-0.0470, -0.0190]","-0.0540 [-0.0870, -0.0220]","0.0200 [0.0060, 0.0340]","0.1840 [0.1530, 0.2150]","0.0100 [-0.0040, 0.0230]","-0.0170 [-0.0440, 0.0100]","0.0900 [0.0600, 0.1200]","0.0010 [-0.0130, 0.0150]","-0.0010 [-0.0310, 0.0290]","-0.0040 [-0.0180, 0.0100]","0.0020 [-0.0260, 0.0290]","0.0100 [-0.0040, 0.0230]"],[3306.609,8050.465,3305.263,7623.665,7587.314,3378.181,7587.305,3353.685,7587.299,3287.705,3321.561,7587.842,3338.283,7586.753,3395.447,7586.843],[0.014,0.006,0.014,0.007,0.007,0.016,0.007,0.016,0.007,0.014,0.015,0.007,0.015,0.007,0.014,0.007],[-0.173,-39.7,-0.946,-6.093,-4.56,-3.298,2.766,11.598,1.383,-1.26,5.828,0.174,-0.07199999999999999,-0.576,0.111,1.382],[".863","&lt; .001",".344","&lt; .001","&lt; .001",".001",".006","&lt; .001",".167",".208","&lt; .001",".862",".943",".564",".912",".167"],["","***","","***","***","**","**","***","","","***","","","","",""]],"container":"<table class=\"display\">\n  <thead>\n    <tr>\n      <th> <\/th>\n      <th>term<\/th>\n      <th>b [95% CI]<\/th>\n      <th>df<\/th>\n      <th>SE<\/th>\n      <th>t<\/th>\n      <th>p<\/th>\n      <th>significance<\/th>\n    <\/tr>\n  <\/thead>\n<\/table>","options":{"columnDefs":[{"className":"dt-right","targets":[3,4,5]},{"orderable":false,"targets":0},{"name":" ","targets":0},{"name":"term","targets":1},{"name":"b [95% CI]","targets":2},{"name":"df","targets":3},{"name":"SE","targets":4},{"name":"t","targets":5},{"name":"p","targets":6},{"name":"significance","targets":7}],"order":[],"autoWidth":false,"orderClasses":false}},"evals":[],"jsHooks":[]}</script>
 </div>
 </div>
 </div>

diff --git a/docs/posts.html b/docs/posts.html
@@ -244,7 +244,7 @@ window.Quarto = {
     </div>
 </div>
 <div class="list quarto-listing-default">
-<div class="quarto-post image-right" data-index="0" data-categories="Q29kaW5nJTJDVHV0b3JpYWw=" data-listing-file-modified-sort="1753979569737" data-listing-reading-time-sort="6" data-listing-word-count-sort="1188">
+<div class="quarto-post image-right" data-index="0" data-categories="Q29kaW5nJTJDVHV0b3JpYWw=" data-listing-file-modified-sort="1765387939008" data-listing-reading-time-sort="6" data-listing-word-count-sort="1188">
 <div class="thumbnail">
 <p><a href="./posts/LLM on HPC/LLM-to-HPC.html" class="no-external"></a></p><a href="./posts/LLM on HPC/LLM-to-HPC.html" class="no-external">
 <div class="listing-item-img-placeholder card-img-top" >&nbsp;</div>
@@ -341,7 +341,7 @@ Steven Mesquiti
 </a>
 </div>
 </div>
-<div class="quarto-post image-right" data-index="3" data-listing-date-sort="NaN" data-listing-file-modified-sort="1765385751337" data-listing-date-modified-sort="NaN" data-listing-reading-time-sort="26" data-listing-word-count-sort="5093">
+<div class="quarto-post image-right" data-index="3" data-listing-date-sort="NaN" data-listing-file-modified-sort="1765933062459" data-listing-date-modified-sort="NaN" data-listing-reading-time-sort="26" data-listing-word-count-sort="5110">
 <div class="thumbnail">
 <p><a href="./posts/I-projections/Post.html" class="no-external"></a></p><a href="./posts/I-projections/Post.html" class="no-external">
 <div class="listing-item-img-placeholder card-img-top" >&nbsp;</div>
@@ -369,7 +369,7 @@ Steven
 </a>
 </div>
 </div>
-<div class="quarto-post image-right" data-index="4" data-listing-date-sort="1765342800000" data-listing-file-modified-sort="1765223117167" data-listing-date-modified-sort="NaN" data-listing-reading-time-sort="50" data-listing-word-count-sort="9974">
+<div class="quarto-post image-right" data-index="4" data-listing-date-sort="1765861200000" data-listing-file-modified-sort="1765223117167" data-listing-date-modified-sort="NaN" data-listing-reading-time-sort="50" data-listing-word-count-sort="9974">
 <div class="thumbnail">
 <p><a href="./posts/PSY591-Final-Project/Assignment.html" class="no-external"></a></p><a href="./posts/PSY591-Final-Project/Assignment.html" class="no-external">
 <div class="listing-item-img-placeholder card-img-top" >&nbsp;</div>
@@ -389,7 +389,7 @@ Steven
 <div class="metadata">
 <a href="./posts/PSY591-Final-Project/Assignment.html" class="no-external">
 <div class="listing-date">
-Dec 10, 2025
+Dec 16, 2025
 </div>
 </a>
 </div>
